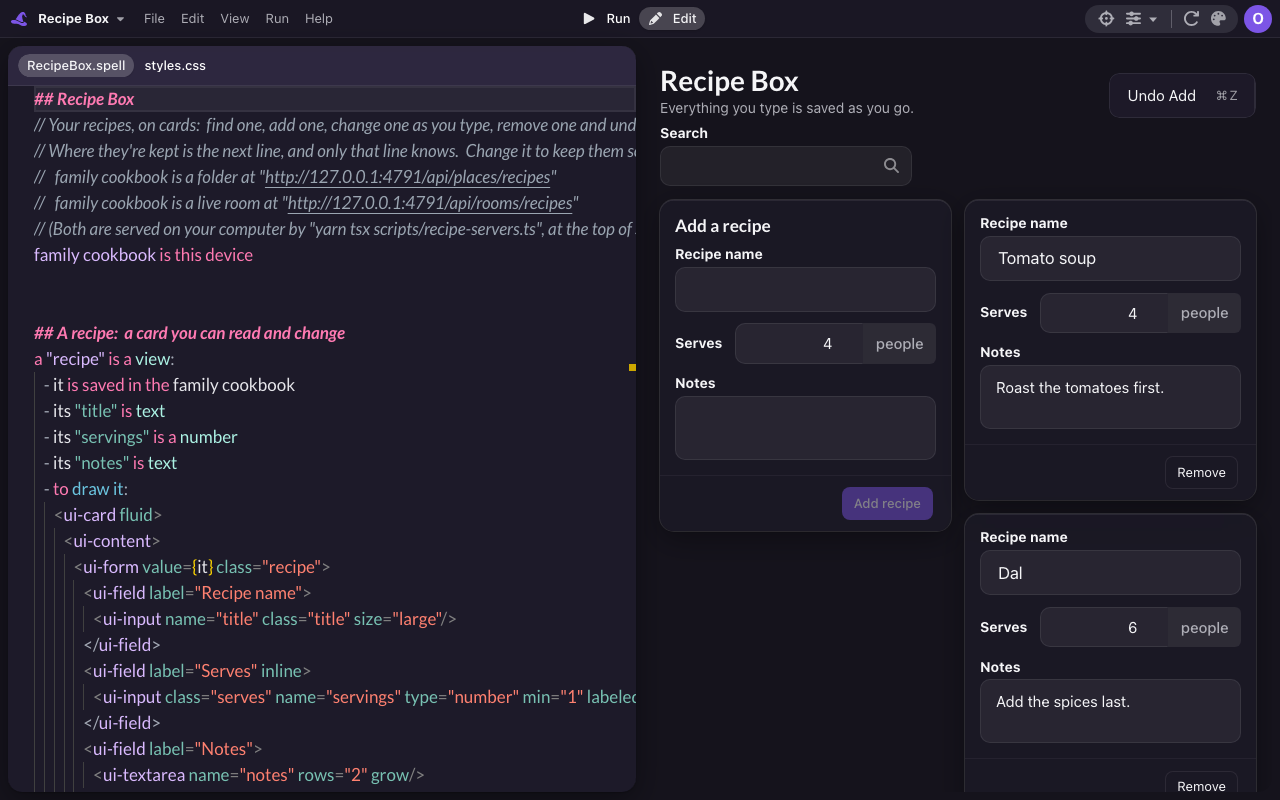
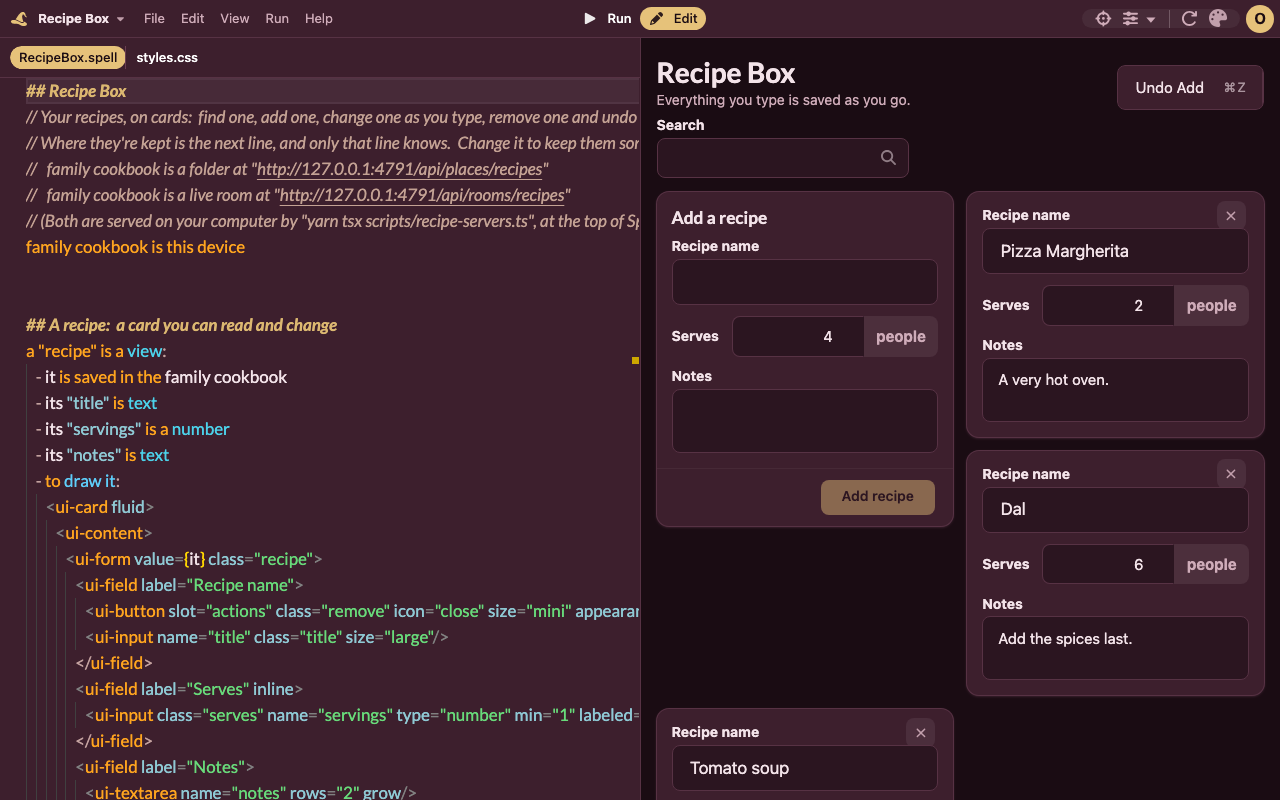
data I21:  the recipe box's newest first, and each card's close x at its upper right, in English and Spanish;  Add stays at the foot of its own card

diff --git a/app/tests/spell/__examples__/CajaDeRecetas/CajaDeRecetas.snapshot.js b/app/tests/spell/__examples__/CajaDeRecetas/CajaDeRecetas.snapshot.js
@@ -29,6 +29,17 @@ export class Receta extends View {
       h("ui-content",
         h("ui-form", { class: "recipe", value: this },
           h("ui-field", { label: "Nombre de la receta" },
+            h("ui-button", {
+              class: "remove",
+              slot: "actions",
+              icon: "close",
+              size: "mini",
+              appearance: "transparent",
+              "aria-label": "Quitar",
+              title: "Quitar",
+              onClick: core.pressed(this, () => core.removeSaved(this)),
+              style: "cursor:var(--ui-control-cursor,pointer);user-select:none"
+            }),
             h("ui-input", { class: "title", name: "título", size: "large" })
           ),
           h("ui-field", { label: "Para", inline: true },
@@ -36,15 +47,6 @@ export class Receta extends View {
           ),
           h("ui-field", { label: "Notas" }, h("ui-textarea", { name: "notas", rows: "2", grow: true }))
         )
-      ),
-      h("ui-extra", { part: "foot" },
-        h("ui-button", {
-          class: "remove",
-          size: "small",
-          appearance: "basic",
-          onClick: core.pressed(this, () => core.removeSaved(this)),
-          style: "cursor:var(--ui-control-cursor,pointer);user-select:none"
-        }, "Quitar")
       )
     )
   }
@@ -79,9 +81,12 @@ export class CajaDeRecetas extends App {
   get recetaNueva() { return this.getProp("recetaNueva") }
   set recetaNueva(value) { this.setProp("recetaNueva", value) }
 
-  static { this.declareProp("coincidencias", { declaredAt: { path: "/CajaDeRecetas.es.spell", start: 1645, end: 1715 }, readsFrom: ["recetario_familiar"] }) }
+  /** las más nuevas primero:  una receta nueva se suma al final, así que se muestran al revés */
+  static { this.declareProp("coincidencias", { declaredAt: { path: "/CajaDeRecetas.es.spell", start: 1750, end: 1880 }, readsFrom: ["recetario_familiar"] }) }
   get coincidencias() { return core.waitedValue(this, "coincidencias", async () => {
-    return core.filter(await core.savedThings(Receta, {}, "looks through"), (receta) => receta.título.includes(this.búsqueda))
+    const halladas = core.filter(await core.savedThings(Receta, {}, "looks through"), (receta) => receta.título.includes(this.búsqueda))
+    core.reverse(halladas)
+    return halladas
   }, () => [this.búsqueda]) }
 
   /** Si todavía no hay nada guardado, unas cuantas para empezar */
@@ -171,4 +176,4 @@ core.describeMenu(CajaDeRecetas, "menúDeLaCaja", { items: ["undo"] })
 
 if (!core.isCarryingOver) cajaDeRecetas.start()
 // -----------
-core.installStyles(undefined, `/* File styles.css:  how the recipe box looks (the same as Recipe Box, its twin).¬   - The box is one grid, <caja-de-recetas-app>:  its header across the top, then a card each, the new recipe's first.¬   - Each recipe is a <caja-de-recetas-receta>, an element of its own:  its insides are reached by their parts. */¬¬caja-de-recetas-app {¬  --ui-card-margin-block: 0;¬  --ui-form-row-distance: 0.75em;¬  --ui-menu-margin: 0;¬  --ui-message-margin: 0;¬¬  display: grid;¬  grid-template-columns: repeat(auto-fill, minmax(min(100%, 18em), 1fr));¬  align-items: start;¬  gap: 1em;¬  max-width: 66em;¬  margin-inline: auto;¬  padding-block-end: 1.5em;¬}¬¬caja-de-recetas-receta {¬  display: block;¬}¬¬/****************¬ * Across the top:  the title, then undo and search, on the right while there's room¬ ****************/¬¬.top {¬  grid-column: 1 / -1;¬}¬¬.top {¬  display: flex;¬  flex-wrap: wrap;¬  align-items: end;¬  gap: 0.5em 1em;¬¬  .heading {¬    flex: 1 1 100%;¬  }¬¬  h1,¬  p {¬    margin: 0;¬  }¬¬  p {¬    color: var(--ui-text-muted);¬  }¬¬  ui-form {¬    --ui-form-row-distance: 0;¬¬    flex: 1 1 10em;¬  }¬¬  /* with room, one line:  the search stays the same width as undo's words change */¬  @media (min-width: 40em) {¬    .heading {¬      flex-basis: 16em;¬    }¬¬    ui-form {¬      flex: 0 1 18em;¬    }¬  }¬}¬¬/****************¬ * The cards¬ ****************/¬¬/* the new recipe's card stands beside two rows of others:  no hole under its neighbours */¬@media (min-width: 40em) {¬  .new::part(card) {¬    grid-row: span 2;¬  }¬}¬¬.new h2 {¬  margin: 0 0 0.5em;¬  font-size: 1.15em;¬}¬¬/* the buttons at the foot of a card are at its right */¬.new ui-extra,¬caja-de-recetas-receta::part(foot) {¬  text-align: end;¬}¬¬/* said beside the new recipe's card, in place of the others */¬.none {¬  color: var(--ui-text-muted);¬}¬¬.waiting {¬  justify-self: start;¬}¬`)
+core.installStyles(undefined, `/* File styles.css:  how the recipe box looks (the same as Recipe Box, its twin).¬   - The box is one grid, <caja-de-recetas-app>:  its header across the top, then a card each, the new recipe's first.¬   - Each recipe is a <caja-de-recetas-receta>, an element of its own:  its insides are reached by their parts. */¬¬caja-de-recetas-app {¬  --ui-card-margin-block: 0;¬  --ui-form-row-distance: 0.75em;¬  --ui-menu-margin: 0;¬  --ui-message-margin: 0;¬¬  display: grid;¬  grid-template-columns: repeat(auto-fill, minmax(min(100%, 18em), 1fr));¬  align-items: start;¬  gap: 1em;¬  max-width: 66em;¬  margin-inline: auto;¬  padding-block-end: 1.5em;¬}¬¬caja-de-recetas-receta {¬  display: block;¬}¬¬/****************¬ * Across the top:  the title, then undo and search, on the right while there's room¬ ****************/¬¬.top {¬  grid-column: 1 / -1;¬}¬¬.top {¬  display: flex;¬  flex-wrap: wrap;¬  align-items: end;¬  gap: 0.5em 1em;¬¬  .heading {¬    flex: 1 1 100%;¬  }¬¬  h1,¬  p {¬    margin: 0;¬  }¬¬  p {¬    color: var(--ui-text-muted);¬  }¬¬  ui-form {¬    --ui-form-row-distance: 0;¬¬    flex: 1 1 10em;¬  }¬¬  /* with room, one line:  the search stays the same width as undo's words change */¬  @media (min-width: 40em) {¬    .heading {¬      flex-basis: 16em;¬    }¬¬    ui-form {¬      flex: 0 1 18em;¬    }¬  }¬}¬¬/****************¬ * The cards¬ ****************/¬¬/* the new recipe's card stands beside two rows of others:  no hole under its neighbours */¬@media (min-width: 40em) {¬  .new::part(card) {¬    grid-row: span 2;¬  }¬}¬¬.new h2 {¬  margin: 0 0 0.5em;¬  font-size: 1.15em;¬}¬¬/* Add, at the foot of its card, on the right */¬.new ui-extra {¬  text-align: end;¬}¬¬/* said beside the new recipe's card, in place of the others */¬.none {¬  color: var(--ui-text-muted);¬}¬¬.waiting {¬  justify-self: start;¬}¬`)

diff --git a/app/tests/spell/__examples__/CajaDeRecetas/CajaDeRecetas.snapshot.tsx b/app/tests/spell/__examples__/CajaDeRecetas/CajaDeRecetas.snapshot.tsx
@@ -28,6 +28,7 @@ export class Receta extends View {
         <ui-content>
           <ui-form class="recipe" value={this}>
             <ui-field label="Nombre de la receta">
+              <ui-button class="remove" slot="actions" icon="close" size="mini" appearance="transparent" aria-label="Quitar" title="Quitar" onClick={core.pressed(this, () => core.removeSaved(this))} style="cursor:var(--ui-control-cursor,pointer);user-select:none" />
               <ui-input class="title" name="título" size="large" />
             </ui-field>
             <ui-field label="Para" inline={true}>
@@ -38,11 +39,6 @@ export class Receta extends View {
             </ui-field>
           </ui-form>
         </ui-content>
-        <ui-extra part="foot">
-          <ui-button class="remove" size="small" appearance="basic" onClick={core.pressed(this, () => core.removeSaved(this))} style="cursor:var(--ui-control-cursor,pointer);user-select:none">
-            Quitar
-          </ui-button>
-        </ui-extra>
       </ui-card>
     )
   }
@@ -91,9 +87,12 @@ export class CajaDeRecetas extends App {
   @prop({ init: () => new Receta({ porciones: 4 }), early: true })
   accessor recetaNueva!: Receta
 
-  static { this.declareProp("coincidencias", { declaredAt: { path: "/CajaDeRecetas.es.spell", start: 1645, end: 1715 }, readsFrom: ["recetario_familiar"] }) }
+  /** las más nuevas primero:  una receta nueva se suma al final, así que se muestran al revés */
+  static { this.declareProp("coincidencias", { declaredAt: { path: "/CajaDeRecetas.es.spell", start: 1750, end: 1880 }, readsFrom: ["recetario_familiar"] }) }
   get coincidencias() { return core.waitedValue(this, "coincidencias", async () => {
-    return core.filter(await core.savedThings(Receta, {}, "looks through"), (receta: Receta) => receta.título.includes(this.búsqueda))
+    const halladas = core.filter(await core.savedThings(Receta, {}, "looks through"), (receta: Receta) => receta.título.includes(this.búsqueda))
+    core.reverse(halladas)
+    return halladas
   }, () => [this.búsqueda]) }
 
   /** Si todavía no hay nada guardado, unas cuantas para empezar */
@@ -200,7 +199,7 @@ core.describeMenu(CajaDeRecetas, "menúDeLaCaja", { items: ["undo"] })
 
 if (!core.isCarryingOver) cajaDeRecetas.start()
 // -----------
-core.installStyles(undefined, `/* File styles.css:  how the recipe box looks (the same as Recipe Box, its twin).¬   - The box is one grid, <caja-de-recetas-app>:  its header across the top, then a card each, the new recipe's first.¬   - Each recipe is a <caja-de-recetas-receta>, an element of its own:  its insides are reached by their parts. */¬¬caja-de-recetas-app {¬  --ui-card-margin-block: 0;¬  --ui-form-row-distance: 0.75em;¬  --ui-menu-margin: 0;¬  --ui-message-margin: 0;¬¬  display: grid;¬  grid-template-columns: repeat(auto-fill, minmax(min(100%, 18em), 1fr));¬  align-items: start;¬  gap: 1em;¬  max-width: 66em;¬  margin-inline: auto;¬  padding-block-end: 1.5em;¬}¬¬caja-de-recetas-receta {¬  display: block;¬}¬¬/****************¬ * Across the top:  the title, then undo and search, on the right while there's room¬ ****************/¬¬.top {¬  grid-column: 1 / -1;¬}¬¬.top {¬  display: flex;¬  flex-wrap: wrap;¬  align-items: end;¬  gap: 0.5em 1em;¬¬  .heading {¬    flex: 1 1 100%;¬  }¬¬  h1,¬  p {¬    margin: 0;¬  }¬¬  p {¬    color: var(--ui-text-muted);¬  }¬¬  ui-form {¬    --ui-form-row-distance: 0;¬¬    flex: 1 1 10em;¬  }¬¬  /* with room, one line:  the search stays the same width as undo's words change */¬  @media (min-width: 40em) {¬    .heading {¬      flex-basis: 16em;¬    }¬¬    ui-form {¬      flex: 0 1 18em;¬    }¬  }¬}¬¬/****************¬ * The cards¬ ****************/¬¬/* the new recipe's card stands beside two rows of others:  no hole under its neighbours */¬@media (min-width: 40em) {¬  .new::part(card) {¬    grid-row: span 2;¬  }¬}¬¬.new h2 {¬  margin: 0 0 0.5em;¬  font-size: 1.15em;¬}¬¬/* the buttons at the foot of a card are at its right */¬.new ui-extra,¬caja-de-recetas-receta::part(foot) {¬  text-align: end;¬}¬¬/* said beside the new recipe's card, in place of the others */¬.none {¬  color: var(--ui-text-muted);¬}¬¬.waiting {¬  justify-self: start;¬}¬`)
+core.installStyles(undefined, `/* File styles.css:  how the recipe box looks (the same as Recipe Box, its twin).¬   - The box is one grid, <caja-de-recetas-app>:  its header across the top, then a card each, the new recipe's first.¬   - Each recipe is a <caja-de-recetas-receta>, an element of its own:  its insides are reached by their parts. */¬¬caja-de-recetas-app {¬  --ui-card-margin-block: 0;¬  --ui-form-row-distance: 0.75em;¬  --ui-menu-margin: 0;¬  --ui-message-margin: 0;¬¬  display: grid;¬  grid-template-columns: repeat(auto-fill, minmax(min(100%, 18em), 1fr));¬  align-items: start;¬  gap: 1em;¬  max-width: 66em;¬  margin-inline: auto;¬  padding-block-end: 1.5em;¬}¬¬caja-de-recetas-receta {¬  display: block;¬}¬¬/****************¬ * Across the top:  the title, then undo and search, on the right while there's room¬ ****************/¬¬.top {¬  grid-column: 1 / -1;¬}¬¬.top {¬  display: flex;¬  flex-wrap: wrap;¬  align-items: end;¬  gap: 0.5em 1em;¬¬  .heading {¬    flex: 1 1 100%;¬  }¬¬  h1,¬  p {¬    margin: 0;¬  }¬¬  p {¬    color: var(--ui-text-muted);¬  }¬¬  ui-form {¬    --ui-form-row-distance: 0;¬¬    flex: 1 1 10em;¬  }¬¬  /* with room, one line:  the search stays the same width as undo's words change */¬  @media (min-width: 40em) {¬    .heading {¬      flex-basis: 16em;¬    }¬¬    ui-form {¬      flex: 0 1 18em;¬    }¬  }¬}¬¬/****************¬ * The cards¬ ****************/¬¬/* the new recipe's card stands beside two rows of others:  no hole under its neighbours */¬@media (min-width: 40em) {¬  .new::part(card) {¬    grid-row: span 2;¬  }¬}¬¬.new h2 {¬  margin: 0 0 0.5em;¬  font-size: 1.15em;¬}¬¬/* Add, at the foot of its card, on the right */¬.new ui-extra {¬  text-align: end;¬}¬¬/* said beside the new recipe's card, in place of the others */¬.none {¬  color: var(--ui-text-muted);¬}¬¬.waiting {¬  justify-self: start;¬}¬`)
 
 // each view type's tag, for the JSX
 declare module "@solidjs/web/types/jsx.js" {

diff --git a/app/tests/spell/__examples__/RecipeBox/RecipeBox.snapshot.js b/app/tests/spell/__examples__/RecipeBox/RecipeBox.snapshot.js
@@ -29,6 +29,17 @@ export class Recipe extends View {
       h("ui-content",
         h("ui-form", { class: "recipe", value: this },
           h("ui-field", { label: "Recipe name" },
+            h("ui-button", {
+              class: "remove",
+              slot: "actions",
+              icon: "close",
+              size: "mini",
+              appearance: "transparent",
+              "aria-label": "Remove",
+              title: "Remove",
+              onClick: core.pressed(this, () => core.removeSaved(this)),
+              style: "cursor:var(--ui-control-cursor,pointer);user-select:none"
+            }),
             h("ui-input", { class: "title", name: "title", size: "large" })
           ),
           h("ui-field", { label: "Serves", inline: true },
@@ -36,15 +47,6 @@ export class Recipe extends View {
           ),
           h("ui-field", { label: "Notes" }, h("ui-textarea", { name: "notes", rows: "2", grow: true }))
         )
-      ),
-      h("ui-extra", { part: "foot" },
-        h("ui-button", {
-          class: "remove",
-          size: "small",
-          appearance: "basic",
-          onClick: core.pressed(this, () => core.removeSaved(this)),
-          style: "cursor:var(--ui-control-cursor,pointer);user-select:none"
-        }, "Remove")
       )
     )
   }
@@ -79,9 +81,12 @@ export class RecipeBox extends App {
   get newRecipe() { return this.getProp("newRecipe") }
   set newRecipe(value) { this.setProp("newRecipe", value) }
 
-  static { this.declareProp("matches", { declaredAt: { path: "/RecipeBox.spell", start: 1533, end: 1598 }, readsFrom: ["family_cookbook"] }) }
+  /** newest first:  a new one joins the end, so they're shown the other way round */
+  static { this.declareProp("matches", { declaredAt: { path: "/RecipeBox.spell", start: 1626, end: 1738 }, readsFrom: ["family_cookbook"] }) }
   get matches() { return core.waitedValue(this, "matches", async () => {
-    return core.filter(await core.savedThings(Recipe, {}, "looks through"), (recipe) => recipe.title.includes(this.search))
+    const found = core.filter(await core.savedThings(Recipe, {}, "looks through"), (recipe) => recipe.title.includes(this.search))
+    core.reverse(found)
+    return found
   }, () => [this.search]) }
 
   /** With nothing kept yet, a few to start from */
@@ -169,4 +174,4 @@ core.describeMenu(RecipeBox, "boxMenu", { items: ["undo"] })
 
 if (!core.isCarryingOver) recipeBox.start()
 // -----------
-core.installStyles(undefined, `/* File styles.css:  how the recipe box looks.¬   - The box is one grid, <recipe-box-app>:  its header across the top, then a card each, the new recipe's first.¬   - Each recipe is a <recipe-box-recipe>, an element of its own:  its insides are reached by their parts. */¬¬recipe-box-app {¬  --ui-card-margin-block: 0;¬  --ui-form-row-distance: 0.75em;¬  --ui-menu-margin: 0;¬  --ui-message-margin: 0;¬¬  display: grid;¬  grid-template-columns: repeat(auto-fill, minmax(min(100%, 18em), 1fr));¬  align-items: start;¬  gap: 1em;¬  max-width: 66em;¬  margin-inline: auto;¬  padding-block-end: 1.5em;¬}¬¬recipe-box-recipe {¬  display: block;¬}¬¬/****************¬ * Across the top:  the title, then undo and search, on the right while there's room¬ ****************/¬¬.top {¬  grid-column: 1 / -1;¬}¬¬.top {¬  display: flex;¬  flex-wrap: wrap;¬  align-items: end;¬  gap: 0.5em 1em;¬¬  .heading {¬    flex: 1 1 100%;¬  }¬¬  h1,¬  p {¬    margin: 0;¬  }¬¬  p {¬    color: var(--ui-text-muted);¬  }¬¬  ui-form {¬    --ui-form-row-distance: 0;¬¬    flex: 1 1 10em;¬  }¬¬  /* with room, one line:  the search stays the same width as undo's words change */¬  @media (min-width: 40em) {¬    .heading {¬      flex-basis: 16em;¬    }¬¬    ui-form {¬      flex: 0 1 18em;¬    }¬  }¬}¬¬/****************¬ * The cards¬ ****************/¬¬/* the new recipe's card stands beside two rows of others:  no hole under its neighbours */¬@media (min-width: 40em) {¬  .new::part(card) {¬    grid-row: span 2;¬  }¬}¬¬.new h2 {¬  margin: 0 0 0.5em;¬  font-size: 1.15em;¬}¬¬/* the buttons at the foot of a card are at its right */¬.new ui-extra,¬recipe-box-recipe::part(foot) {¬  text-align: end;¬}¬¬/* said beside the new recipe's card, in place of the others */¬.none {¬  color: var(--ui-text-muted);¬}¬¬.waiting {¬  justify-self: start;¬}¬`)
+core.installStyles(undefined, `/* File styles.css:  how the recipe box looks.¬   - The box is one grid, <recipe-box-app>:  its header across the top, then a card each, the new recipe's first.¬   - Each recipe is a <recipe-box-recipe>, an element of its own:  its insides are reached by their parts. */¬¬recipe-box-app {¬  --ui-card-margin-block: 0;¬  --ui-form-row-distance: 0.75em;¬  --ui-menu-margin: 0;¬  --ui-message-margin: 0;¬¬  display: grid;¬  grid-template-columns: repeat(auto-fill, minmax(min(100%, 18em), 1fr));¬  align-items: start;¬  gap: 1em;¬  max-width: 66em;¬  margin-inline: auto;¬  padding-block-end: 1.5em;¬}¬¬recipe-box-recipe {¬  display: block;¬}¬¬/****************¬ * Across the top:  the title, then undo and search, on the right while there's room¬ ****************/¬¬.top {¬  grid-column: 1 / -1;¬}¬¬.top {¬  display: flex;¬  flex-wrap: wrap;¬  align-items: end;¬  gap: 0.5em 1em;¬¬  .heading {¬    flex: 1 1 100%;¬  }¬¬  h1,¬  p {¬    margin: 0;¬  }¬¬  p {¬    color: var(--ui-text-muted);¬  }¬¬  ui-form {¬    --ui-form-row-distance: 0;¬¬    flex: 1 1 10em;¬  }¬¬  /* with room, one line:  the search stays the same width as undo's words change */¬  @media (min-width: 40em) {¬    .heading {¬      flex-basis: 16em;¬    }¬¬    ui-form {¬      flex: 0 1 18em;¬    }¬  }¬}¬¬/****************¬ * The cards¬ ****************/¬¬/* the new recipe's card stands beside two rows of others:  no hole under its neighbours */¬@media (min-width: 40em) {¬  .new::part(card) {¬    grid-row: span 2;¬  }¬}¬¬.new h2 {¬  margin: 0 0 0.5em;¬  font-size: 1.15em;¬}¬¬/* Add, at the foot of its card, on the right */¬.new ui-extra {¬  text-align: end;¬}¬¬/* said beside the new recipe's card, in place of the others */¬.none {¬  color: var(--ui-text-muted);¬}¬¬.waiting {¬  justify-self: start;¬}¬`)

diff --git a/app/tests/spell/__examples__/RecipeBox/RecipeBox.snapshot.tsx b/app/tests/spell/__examples__/RecipeBox/RecipeBox.snapshot.tsx
@@ -28,6 +28,7 @@ export class Recipe extends View {
         <ui-content>
           <ui-form class="recipe" value={this}>
             <ui-field label="Recipe name">
+              <ui-button class="remove" slot="actions" icon="close" size="mini" appearance="transparent" aria-label="Remove" title="Remove" onClick={core.pressed(this, () => core.removeSaved(this))} style="cursor:var(--ui-control-cursor,pointer);user-select:none" />
               <ui-input class="title" name="title" size="large" />
             </ui-field>
             <ui-field label="Serves" inline={true}>
@@ -38,11 +39,6 @@ export class Recipe extends View {
             </ui-field>
           </ui-form>
         </ui-content>
-        <ui-extra part="foot">
-          <ui-button class="remove" size="small" appearance="basic" onClick={core.pressed(this, () => core.removeSaved(this))} style="cursor:var(--ui-control-cursor,pointer);user-select:none">
-            Remove
-          </ui-button>
-        </ui-extra>
       </ui-card>
     )
   }
@@ -90,9 +86,12 @@ export class RecipeBox extends App {
   @prop({ init: () => new Recipe({ servings: 4 }), early: true })
   accessor newRecipe!: Recipe
 
-  static { this.declareProp("matches", { declaredAt: { path: "/RecipeBox.spell", start: 1533, end: 1598 }, readsFrom: ["family_cookbook"] }) }
+  /** newest first:  a new one joins the end, so they're shown the other way round */
+  static { this.declareProp("matches", { declaredAt: { path: "/RecipeBox.spell", start: 1626, end: 1738 }, readsFrom: ["family_cookbook"] }) }
   get matches() { return core.waitedValue(this, "matches", async () => {
-    return core.filter(await core.savedThings(Recipe, {}, "looks through"), (recipe: Recipe) => recipe.title.includes(this.search))
+    const found = core.filter(await core.savedThings(Recipe, {}, "looks through"), (recipe: Recipe) => recipe.title.includes(this.search))
+    core.reverse(found)
+    return found
   }, () => [this.search]) }
 
   /** With nothing kept yet, a few to start from */
@@ -199,7 +198,7 @@ core.describeMenu(RecipeBox, "boxMenu", { items: ["undo"] })
 
 if (!core.isCarryingOver) recipeBox.start()
 // -----------
-core.installStyles(undefined, `/* File styles.css:  how the recipe box looks.¬   - The box is one grid, <recipe-box-app>:  its header across the top, then a card each, the new recipe's first.¬   - Each recipe is a <recipe-box-recipe>, an element of its own:  its insides are reached by their parts. */¬¬recipe-box-app {¬  --ui-card-margin-block: 0;¬  --ui-form-row-distance: 0.75em;¬  --ui-menu-margin: 0;¬  --ui-message-margin: 0;¬¬  display: grid;¬  grid-template-columns: repeat(auto-fill, minmax(min(100%, 18em), 1fr));¬  align-items: start;¬  gap: 1em;¬  max-width: 66em;¬  margin-inline: auto;¬  padding-block-end: 1.5em;¬}¬¬recipe-box-recipe {¬  display: block;¬}¬¬/****************¬ * Across the top:  the title, then undo and search, on the right while there's room¬ ****************/¬¬.top {¬  grid-column: 1 / -1;¬}¬¬.top {¬  display: flex;¬  flex-wrap: wrap;¬  align-items: end;¬  gap: 0.5em 1em;¬¬  .heading {¬    flex: 1 1 100%;¬  }¬¬  h1,¬  p {¬    margin: 0;¬  }¬¬  p {¬    color: var(--ui-text-muted);¬  }¬¬  ui-form {¬    --ui-form-row-distance: 0;¬¬    flex: 1 1 10em;¬  }¬¬  /* with room, one line:  the search stays the same width as undo's words change */¬  @media (min-width: 40em) {¬    .heading {¬      flex-basis: 16em;¬    }¬¬    ui-form {¬      flex: 0 1 18em;¬    }¬  }¬}¬¬/****************¬ * The cards¬ ****************/¬¬/* the new recipe's card stands beside two rows of others:  no hole under its neighbours */¬@media (min-width: 40em) {¬  .new::part(card) {¬    grid-row: span 2;¬  }¬}¬¬.new h2 {¬  margin: 0 0 0.5em;¬  font-size: 1.15em;¬}¬¬/* the buttons at the foot of a card are at its right */¬.new ui-extra,¬recipe-box-recipe::part(foot) {¬  text-align: end;¬}¬¬/* said beside the new recipe's card, in place of the others */¬.none {¬  color: var(--ui-text-muted);¬}¬¬.waiting {¬  justify-self: start;¬}¬`)
+core.installStyles(undefined, `/* File styles.css:  how the recipe box looks.¬   - The box is one grid, <recipe-box-app>:  its header across the top, then a card each, the new recipe's first.¬   - Each recipe is a <recipe-box-recipe>, an element of its own:  its insides are reached by their parts. */¬¬recipe-box-app {¬  --ui-card-margin-block: 0;¬  --ui-form-row-distance: 0.75em;¬  --ui-menu-margin: 0;¬  --ui-message-margin: 0;¬¬  display: grid;¬  grid-template-columns: repeat(auto-fill, minmax(min(100%, 18em), 1fr));¬  align-items: start;¬  gap: 1em;¬  max-width: 66em;¬  margin-inline: auto;¬  padding-block-end: 1.5em;¬}¬¬recipe-box-recipe {¬  display: block;¬}¬¬/****************¬ * Across the top:  the title, then undo and search, on the right while there's room¬ ****************/¬¬.top {¬  grid-column: 1 / -1;¬}¬¬.top {¬  display: flex;¬  flex-wrap: wrap;¬  align-items: end;¬  gap: 0.5em 1em;¬¬  .heading {¬    flex: 1 1 100%;¬  }¬¬  h1,¬  p {¬    margin: 0;¬  }¬¬  p {¬    color: var(--ui-text-muted);¬  }¬¬  ui-form {¬    --ui-form-row-distance: 0;¬¬    flex: 1 1 10em;¬  }¬¬  /* with room, one line:  the search stays the same width as undo's words change */¬  @media (min-width: 40em) {¬    .heading {¬      flex-basis: 16em;¬    }¬¬    ui-form {¬      flex: 0 1 18em;¬    }¬  }¬}¬¬/****************¬ * The cards¬ ****************/¬¬/* the new recipe's card stands beside two rows of others:  no hole under its neighbours */¬@media (min-width: 40em) {¬  .new::part(card) {¬    grid-row: span 2;¬  }¬}¬¬.new h2 {¬  margin: 0 0 0.5em;¬  font-size: 1.15em;¬}¬¬/* Add, at the foot of its card, on the right */¬.new ui-extra {¬  text-align: end;¬}¬¬/* said beside the new recipe's card, in place of the others */¬.none {¬  color: var(--ui-text-muted);¬}¬¬.waiting {¬  justify-self: start;¬}¬`)
 
 // each view type's tag, for the JSX
 declare module "@solidjs/web/types/jsx.js" {

diff --git a/app/tests/spell/recipeBox.test.ts b/app/tests/spell/recipeBox.test.ts
@@ -271,13 +271,13 @@ ${token ? `<script>window.SPELL_SERVER = { token: "${token}" }</script>` : ""}
   const SHIPPED = [
     {
       path: "RecipeBox/RecipeBox.spell",
-      examples: ["Tomato soup", "Dal", "Pizza Margherita"],
+      examples: ["Pizza Margherita", "Dal", "Tomato soup"],
       noRecipes: "No recipes yet. Add your first one.",
       noMatches: "No recipes match your search."
     },
     {
       path: "CajaDeRecetas/CajaDeRecetas.es.spell",
-      examples: ["Sopa de tomate", "Dal", "Pizza Margarita"],
+      examples: ["Pizza Margarita", "Dal", "Sopa de tomate"],
       noRecipes: "Todavía no hay recetas. Agrega la primera.",
       noMatches: "Ninguna receta coincide con tu búsqueda."
     }
@@ -319,7 +319,7 @@ ${token ? `<script>window.SPELL_SERVER = { token: "${token}" }</script>` : ""}
         // every field shown, and labelled
         const firstCard = page.locator("ui-form.recipe").first()
         expect(await firstCard.locator("ui-field").count()).toBe(3)
-        expect(await firstCard.locator("ui-input.serves input").inputValue()).toBe("4")
+        expect(await firstCard.locator("ui-input.serves input").inputValue()).toBe("2")
         expect(await firstCard.locator("textarea").inputValue()).not.toBe("")
 
         // a search follows every letter typed, and says when it finds nothing
@@ -330,11 +330,12 @@ ${token ? `<script>window.SPELL_SERVER = { token: "${token}" }</script>` : ""}
         await page.locator("ui-input.search input").fill("")
         await expect.poll(() => cardsOn(page), WAITING).toEqual(examples)
 
-        // a new one:  its card has what was typed, and the new card is empty again
+        // a new one:  first of all, with what was typed, and the new card is empty again
         await page.locator("ui-input.draft input").fill("birria")
+        await page.locator("ui-card.new textarea").pressSequentially("Slowly")
         await expect.poll(isAddOff, WAITING).toBe(false)
         await add.click()
-        await expect.poll(() => cardsOn(page), WAITING).toContain("birria")
+        await expect.poll(() => cardsOn(page), WAITING).toEqual(["birria", ...examples])
         expect(await page.locator("ui-input.draft input").inputValue()).toBe("")
 
         // typing in a card stays in that card, whatever it now says
@@ -342,16 +343,14 @@ ${token ? `<script>window.SPELL_SERVER = { token: "${token}" }</script>` : ""}
         await card.click()
         await card.press("End")
         await page.keyboard.type(" again")
-        await expect.poll(() => cardsOn(page), WAITING).toContain(`${examples[0]} again`)
+        await expect.poll(() => cardsOn(page), WAITING).toContain("birria again")
 
-        // remove, and undo:  back with what it said
-        const notes = await firstCard.locator("textarea").inputValue()
+        // remove, and undo:  back where it was, with what it said
         await page.locator("ui-button.remove").first().click()
-        await expect.poll(() => cardsOn(page), WAITING).not.toContain(`${examples[0]} again`)
+        await expect.poll(() => cardsOn(page), WAITING).not.toContain("birria again")
         await undoOn(page).click()
-        await expect.poll(() => cardsOn(page), WAITING).toContain(`${examples[0]} again`)
-        const back = page.locator("ui-form.recipe").filter({ hasText: "" }).last()
-        expect(await back.locator("textarea").inputValue()).toBe(notes)
+        await expect.poll(() => cardsOn(page), WAITING).toEqual(["birria again", ...examples])
+        expect(await firstCard.locator("textarea").inputValue()).toBe("Slowly")
 
         // with none left, it says so
         while (await page.locator("ui-button.remove").count()) await page.locator("ui-button.remove").first().click()
@@ -375,14 +374,15 @@ ${token ? `<script>window.SPELL_SERVER = { token: "${token}" }</script>` : ""}
       await page.locator("ui-input.draft input").fill("A shipped stew")
       await page.locator("ui-button.add").click()
       await expect.poll(held, WAITING).toContain("A shipped stew")
+      expect((await cardsOn(page))[0]).toBe("A shipped stew")
 
-      await page.locator("ui-button.remove").last().click()
+      await page.locator("ui-button.remove").first().click()
       await expect.poll(held, WAITING).not.toContain("A shipped stew")
       await undoOn(page).click()
       await expect.poll(held, WAITING).toContain("A shipped stew")
       await expect.poll(() => cardsOn(page), WAITING).toContain("A shipped stew")
 
-      await page.locator("ui-button.remove").last().click()
+      await page.locator("ui-button.remove").first().click()
       await expect.poll(held, WAITING).not.toContain("A shipped stew")
       expect(problems).toEqual([])
       await page.close()

diff --git a/app/spaces/@spell/examples/CajaDeRecetas/styles.css b/app/spaces/@spell/examples/CajaDeRecetas/styles.css
@@ -82,9 +82,8 @@ caja-de-recetas-receta {
   font-size: 1.15em;
 }
 
-/* the buttons at the foot of a card are at its right */
-.new ui-extra,
-caja-de-recetas-receta::part(foot) {
+/* Add, at the foot of its card, on the right */
+.new ui-extra {
   text-align: end;
 }
 

diff --git a/app/spaces/@spell/examples/RecipeBox/styles.css b/app/spaces/@spell/examples/RecipeBox/styles.css
@@ -82,9 +82,8 @@ recipe-box-recipe {
   font-size: 1.15em;
 }
 
-/* the buttons at the foot of a card are at its right */
-.new ui-extra,
-recipe-box-recipe::part(foot) {
+/* Add, at the foot of its card, on the right */
+.new ui-extra {
   text-align: end;
 }
 
